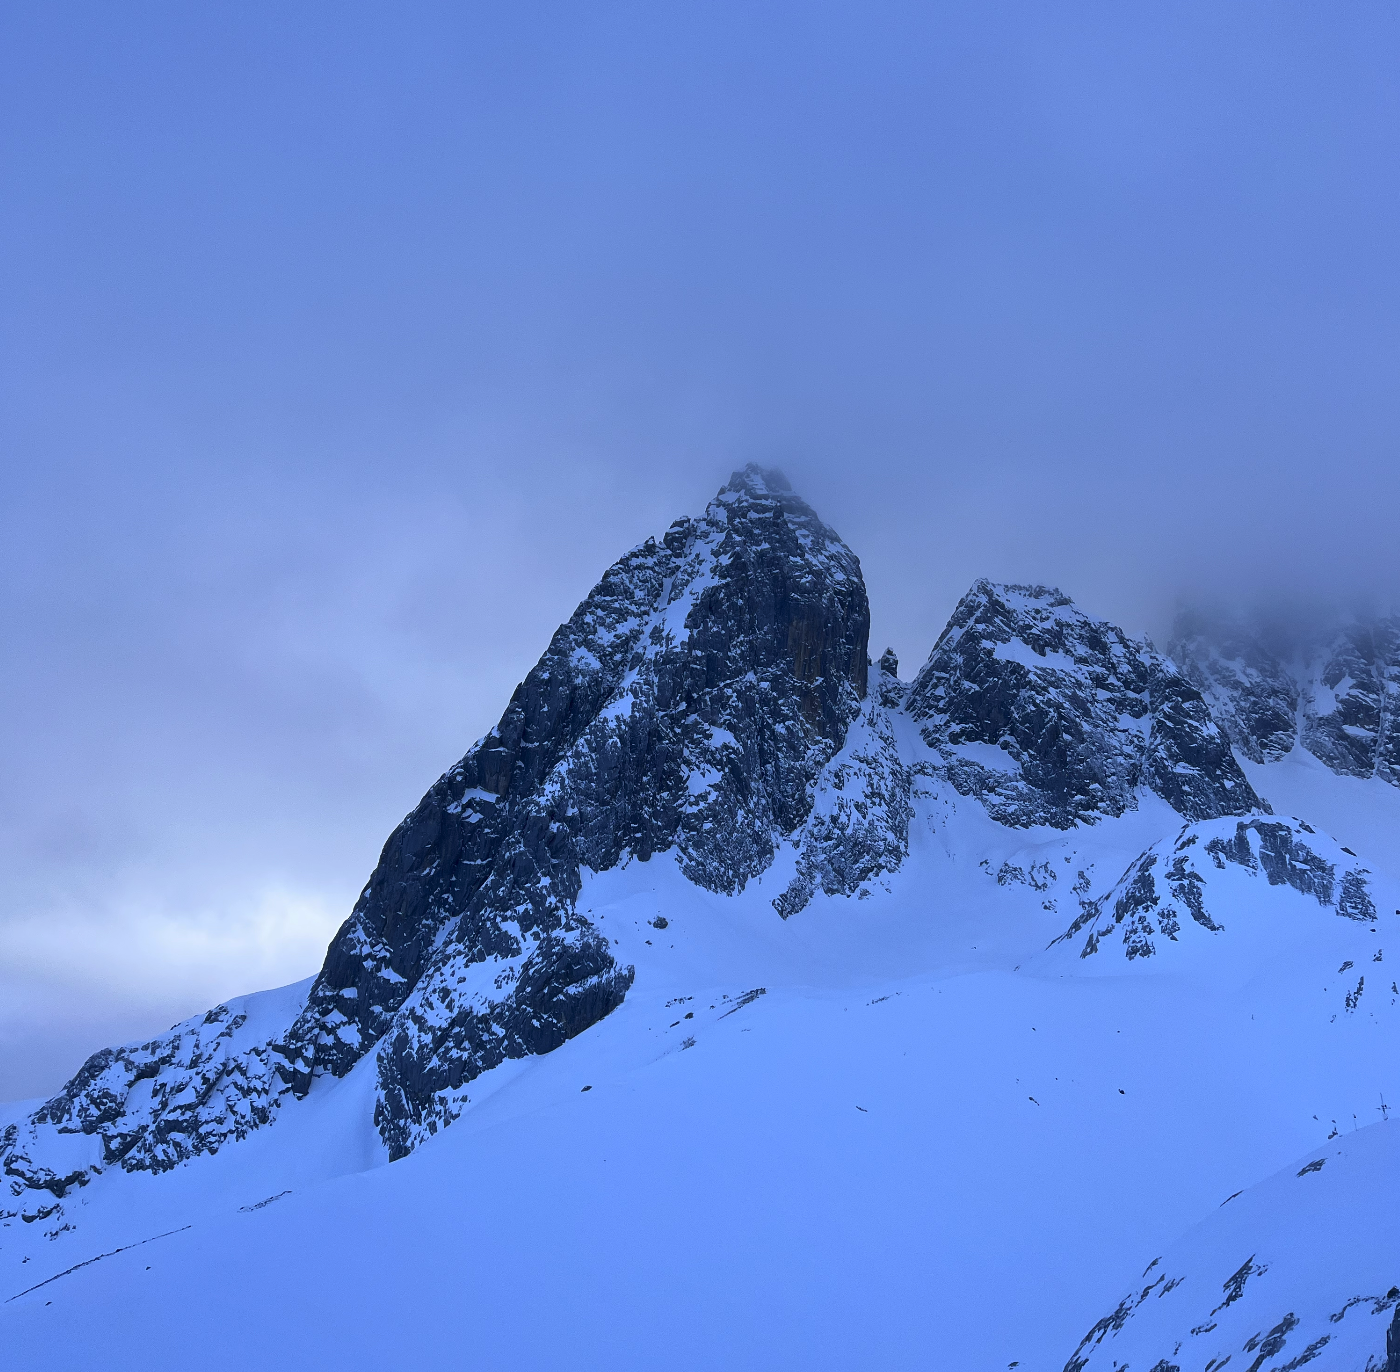
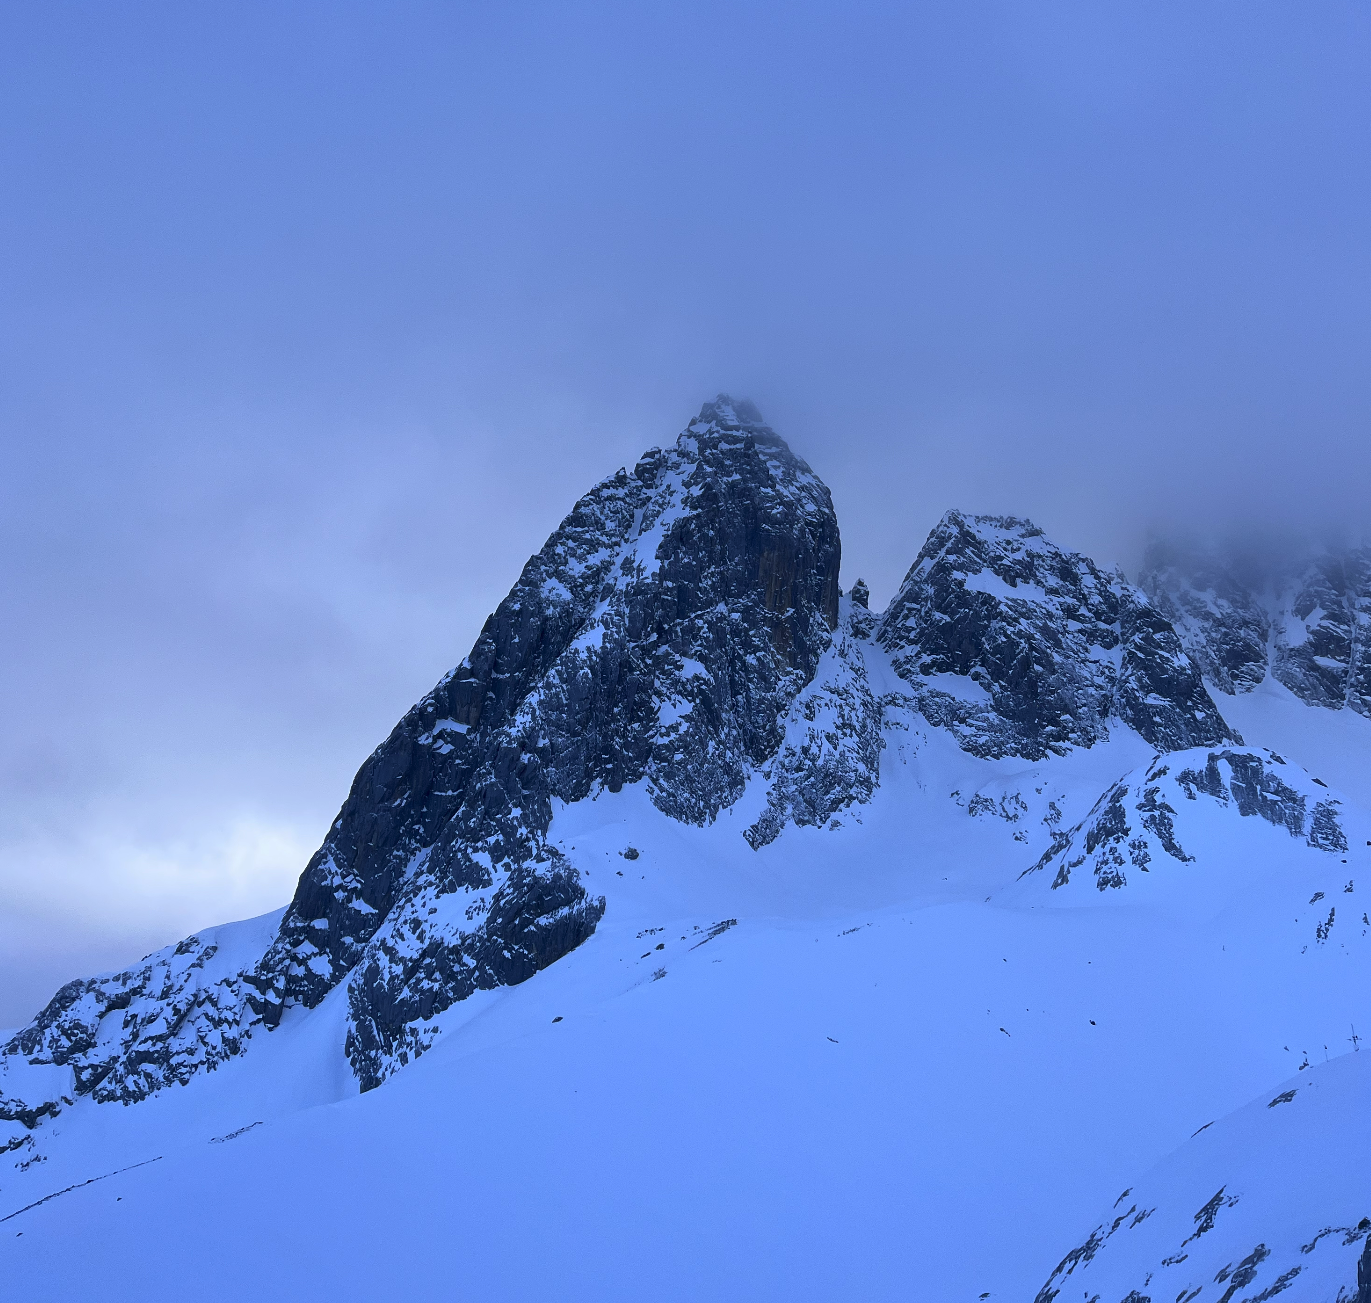
image

diff --git a/_games/Spirit of the Mountain.md b/_games/Spirit of the Mountain.md
@@ -59,13 +59,13 @@ The climbing gameplay and story’s themes of health will also intersect around 
 
 <b>Goals of Conceptualization Phase and Deliverables</b>
 
-1.	Mechanics and market research
+•	Mechanics and market research
   A number of games have recently released or are soon releasing in a nascent climbing genre, including A Short Hike (2019), Jusant (2023), A Difficult Game About Climbing (2024), Baby Steps (unreleased, 2025), and Cairn (unreleased, 2025). To further hone our game concept, we will spend some research time analyzing the mechanics of these games as well as their promotional strategies and market success. We will analyze sales and audience statistics available on SteamDB.info, as well as the amount and type of interest they have received in game journalism and streaming and social media.
 
-2.	Test of Functionality
+•	Test of Functionality
 We need to set up a test of functionality of the game’s climbing and stamina mechanics alongside the use of background audio to confirm that this will work before developing a larger prototype with a full game loop and climbable mountain. Since the audio is in multiple languages, we will also spend some time testing different ways of effectively presenting subtitled text translations on screen. We would use funds to program this basic functionality in Unity, bring the results to playtest events around Montreal to confirm that players find this form of mechanic and narrative delivery engaging, and make adjustments as needed.
 
-</b>Team Description</b>
+<b>Team Description</b>
 
 Astro Girls
 
